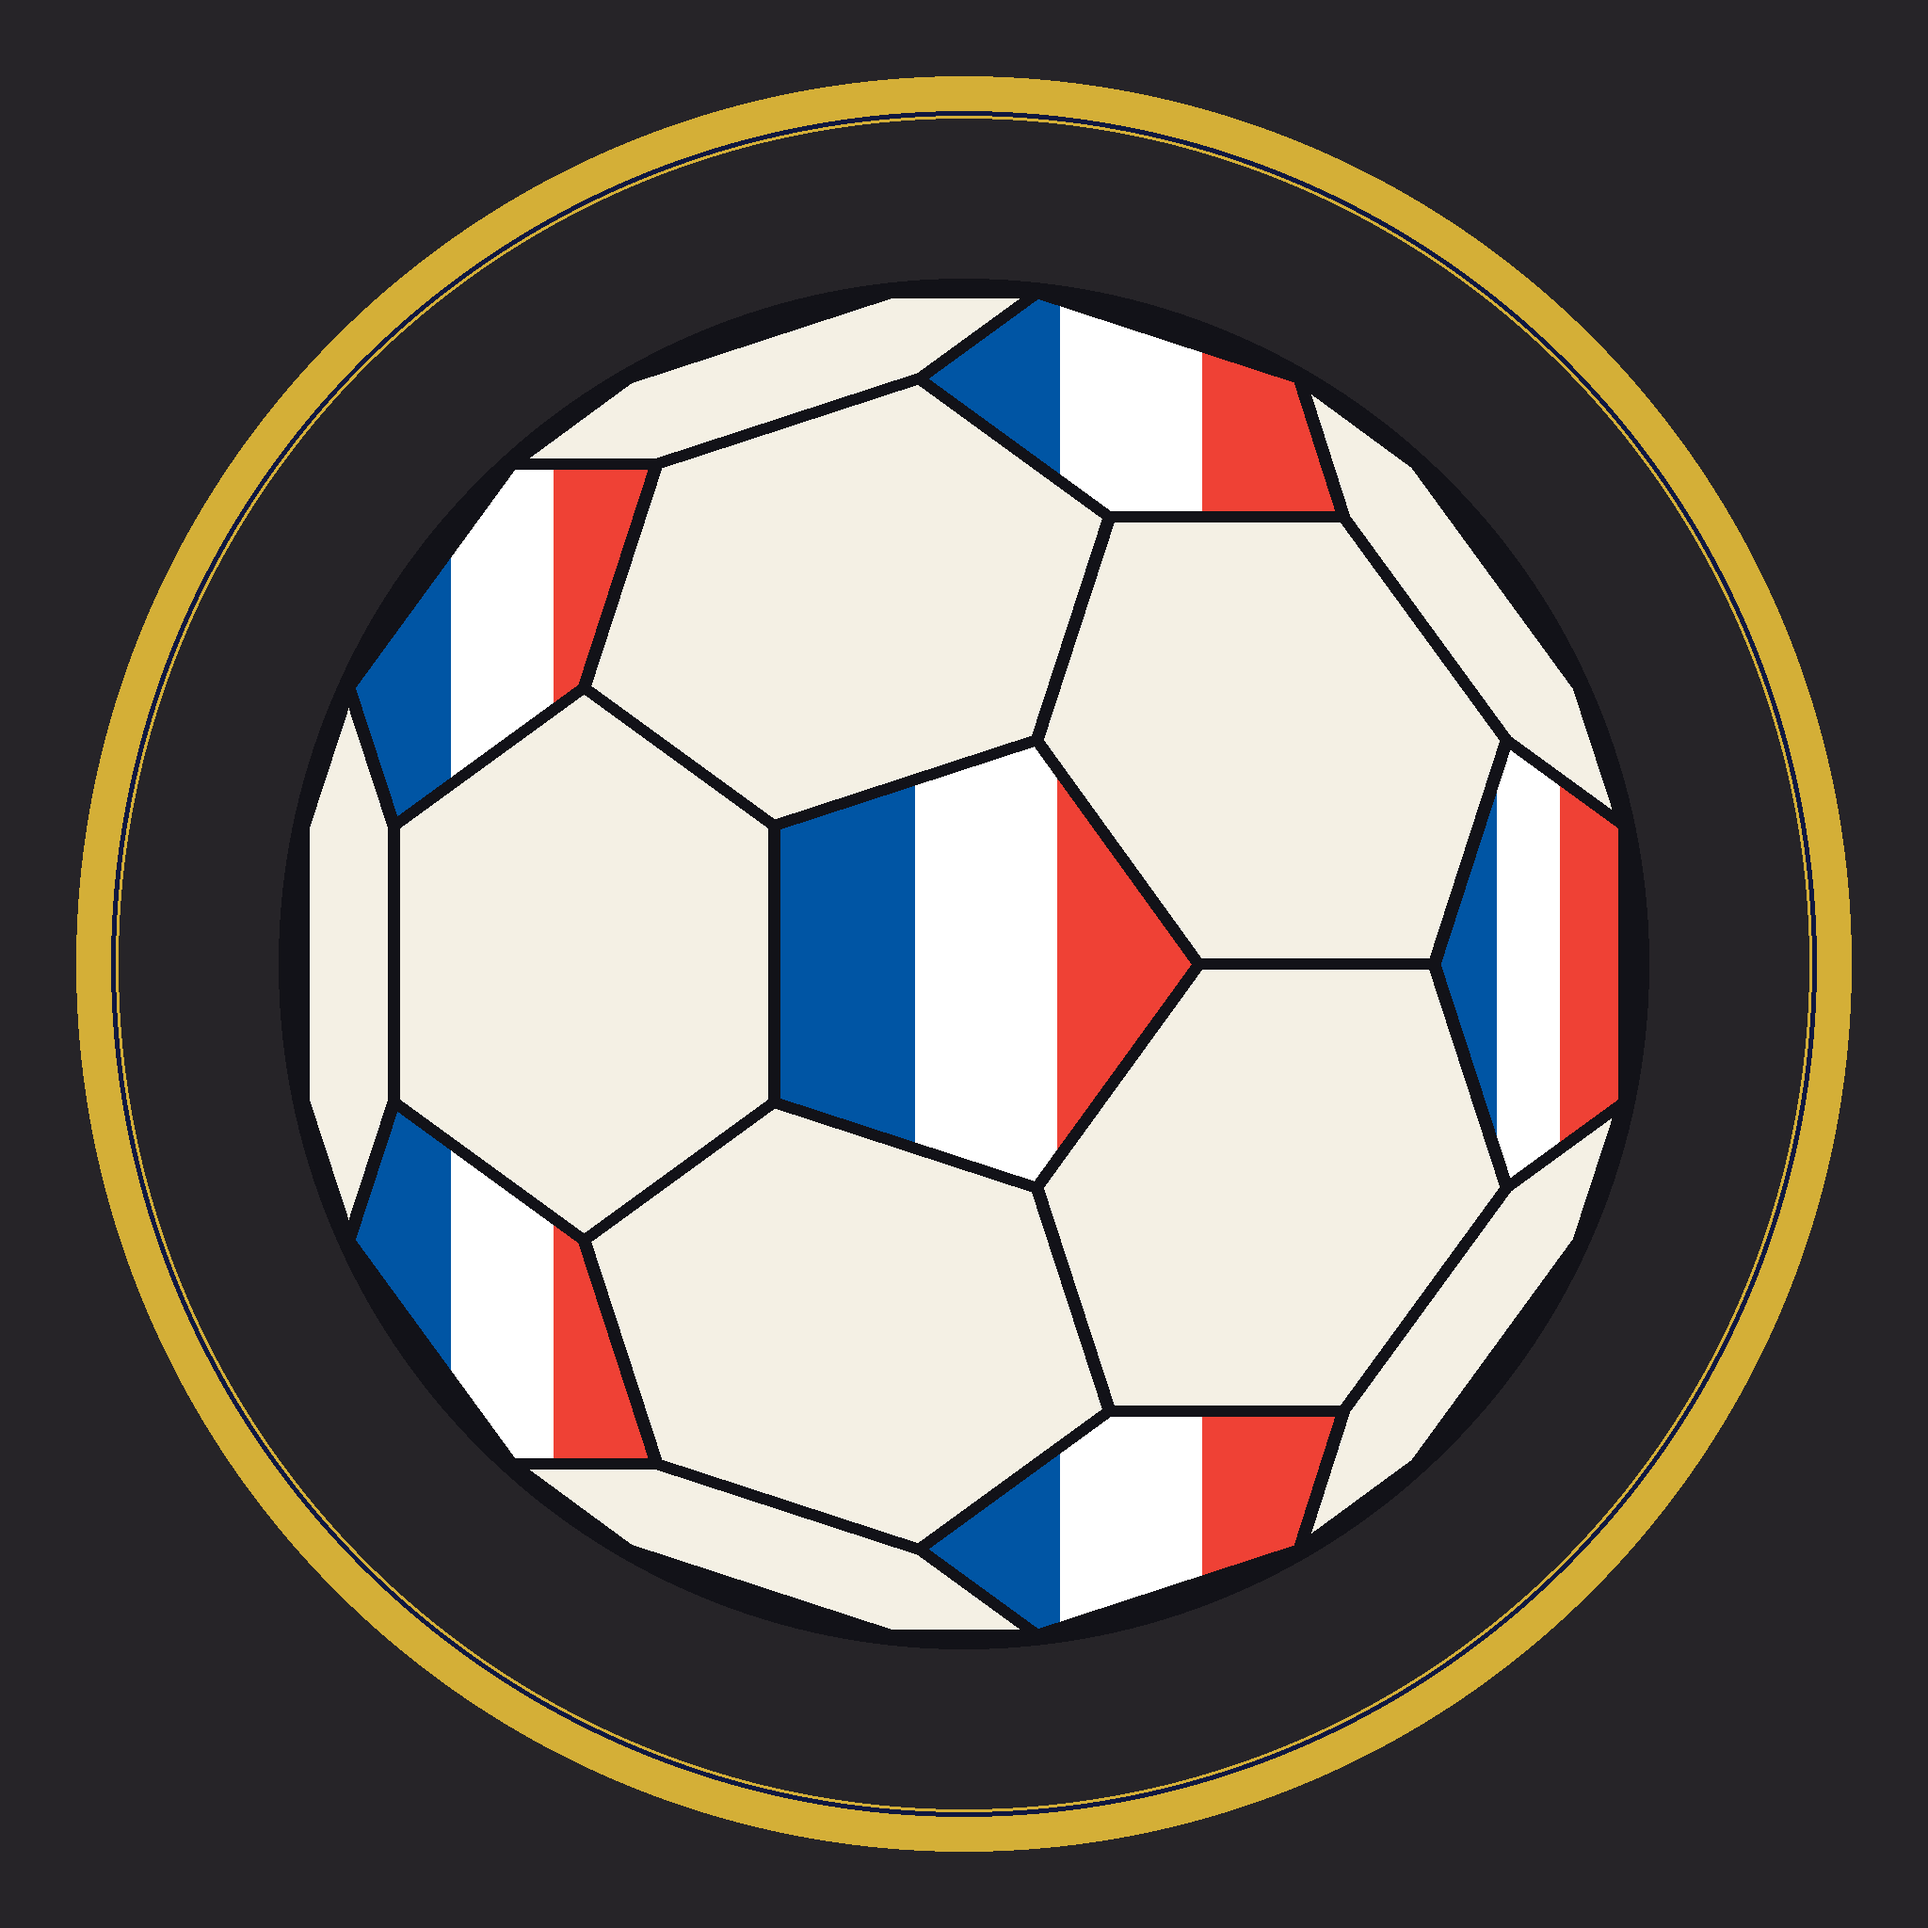
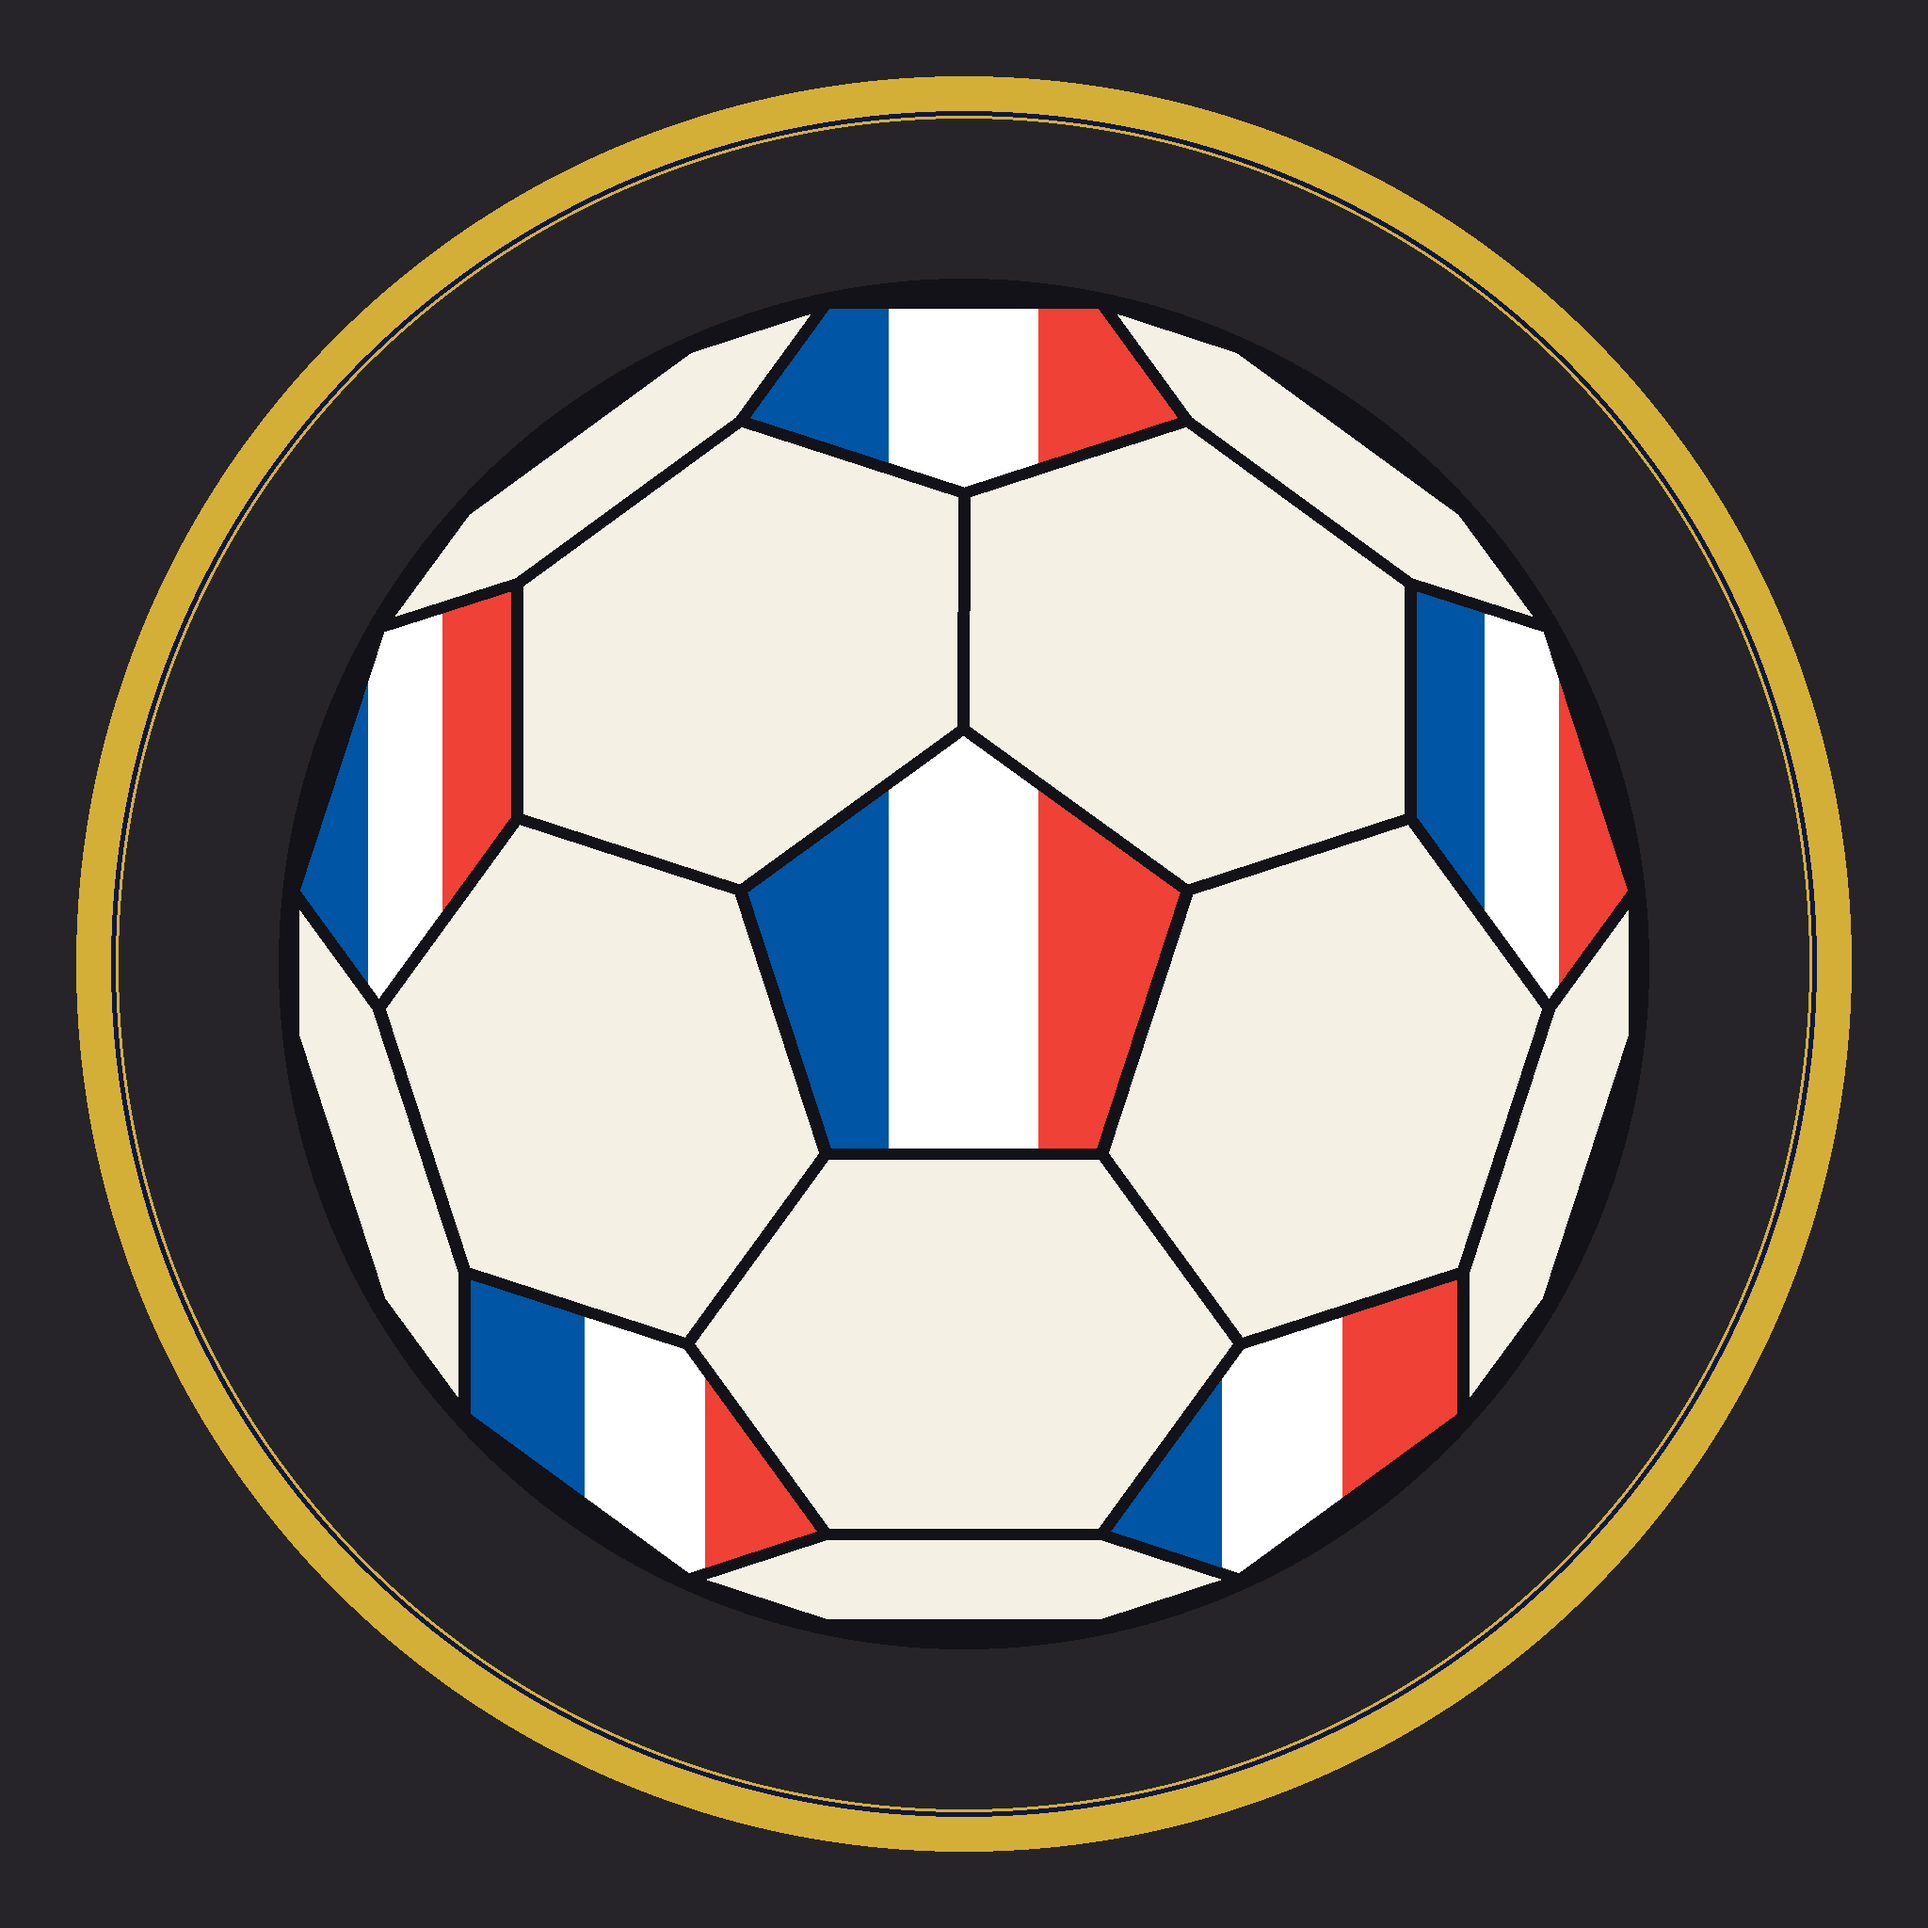
fix: pentagone central droit (axe vertical) dans le seed Telstar
https://claude.ai/code/session_011hU6yuR4dGRtyXL7mZFdwg

Changed region(s): [[0.1562, 0.1562, 0.8438, 0.8438], [0.3125, 0.3125, 0.6875, 0.6875]]

diff --git a/scripts/render_telstar_seed.py b/scripts/render_telstar_seed.py
@@ -85,8 +85,17 @@ def render(country: str, out_path: str, size: int = 2048):
     # oriente un pentagone exactement face caméra
     pent = next(f for f in faces if len(f) == 5)
     R = rotation_to_z(V[pent].mean(axis=0))
-    # légère rotation pour poser le pentagone central à plat (pointe en haut)
     V = V @ R.T
+    # redresse le pentagone central : axe de symétrie vertical, pointe en haut
+    center = V[pent].mean(axis=0)
+    a0 = np.arctan2(V[pent[0]][1] - center[1], V[pent[0]][0] - center[0])
+    step = 2 * np.pi / 5
+    delta = (np.pi / 2 - a0) % step
+    if delta > step / 2:
+        delta -= step
+    c, s = np.cos(delta), np.sin(delta)
+    Rz = np.array([[c, -s, 0], [s, c, 0], [0, 0, 1]])
+    V = V @ Rz.T
 
     img = Image.new("RGB", (size, size), FELT)
     d = ImageDraw.Draw(img)
